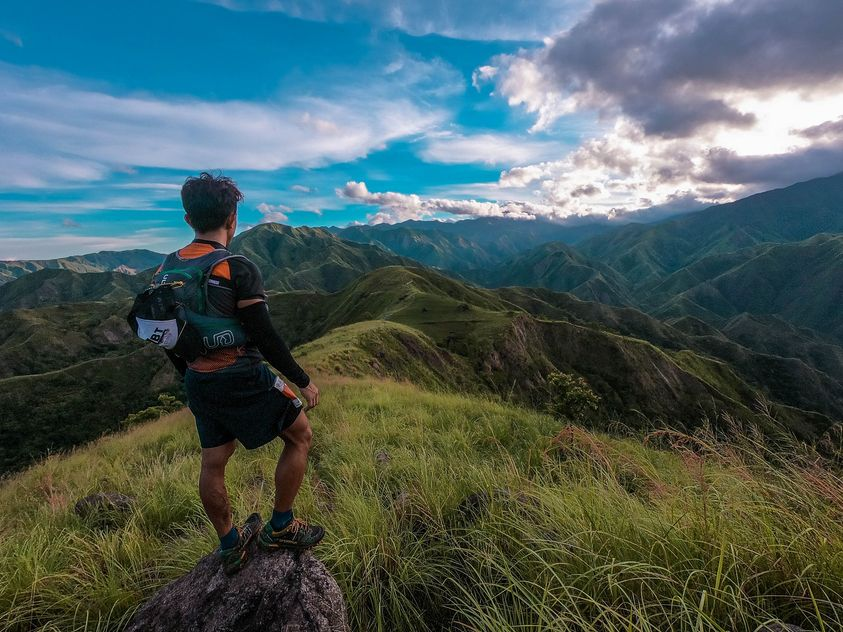
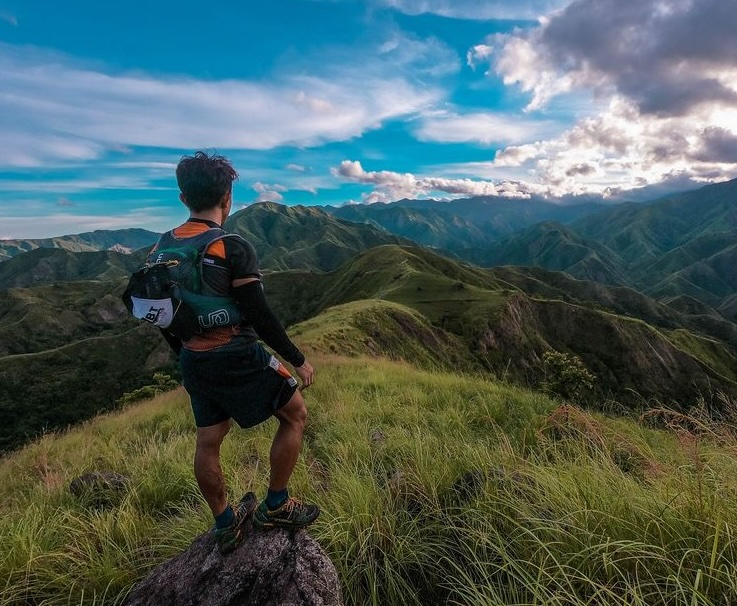
Updated gallery and footer

diff --git a/src/components/sections/gallery.jsx b/src/components/sections/gallery.jsx
@@ -23,17 +23,17 @@ const Gallery = () => {
 
   return (
     <section className="py-5 bg-gradient-to-b from-gray-300 to-gray-200">
-      <div className="px-1 mx-auto">
-        <div className="grid grid-cols-4 gap-1 sm:gap-1">
+      <div className="px-2 mx-auto">
+        <div className="grid grid-cols-3 md:grid-cols-4 gap-1">
           {images.map((image, index) => (
             <img
               key={index}
               src={image.src}
-              className="w-full h-25 md:h-60 lg:h-65 
-              object-cover rounded 
-              transition-transform 
+              className="w-full h-28 md:h-80
+              object-cover rounded-sm
+              transition-transform
               duration-200 
-              transform hover:scale-105"
+              transform hover:scale-110"
             />
           ))}
         </div>

diff --git a/src/components/sections/footer.jsx b/src/components/sections/footer.jsx
@@ -3,9 +3,12 @@ import React from 'react';
 
 const Footer = () => {
   return (
-    <footer className="bg-white border-t border-gray-300 py-4">
+    <footer className="border-t border-gray-300 pt-4 pb-8" style={{
+      background: 'linear-gradient(180deg,  #D1D5DB, #F3F4F6)'
+    }}>
       <div className="container mx-auto text-center">
-        <p className="mb-2 text-gray-800">© 2024 Marce & Reyn. L❤ve is an adventure!</p>
+        <p className="mb-2 text-gray-800 italic">A Love Through Time: 8 Years and Beyond </p>
+        <p> © 2024 Marce ❤ Reyn</p>
       </div>
     </footer>
   );

diff --git a/dist/index.html b/dist/index.html
@@ -22,8 +22,8 @@
   <meta property="og:image" content="/marce-reyn.png" />
   <meta property="og:url" content="https://marce-reyn.com" />
 
-  <script type="module" crossorigin src="/assets/index-Co-0FDuI.js"></script>
-  <link rel="stylesheet" crossorigin href="/assets/index-DBewRi-u.css">
+  <script type="module" crossorigin src="/assets/index-iQDKY6cE.js"></script>
+  <link rel="stylesheet" crossorigin href="/assets/index-6UUav8IH.css">
 </head>
 
 <body>
